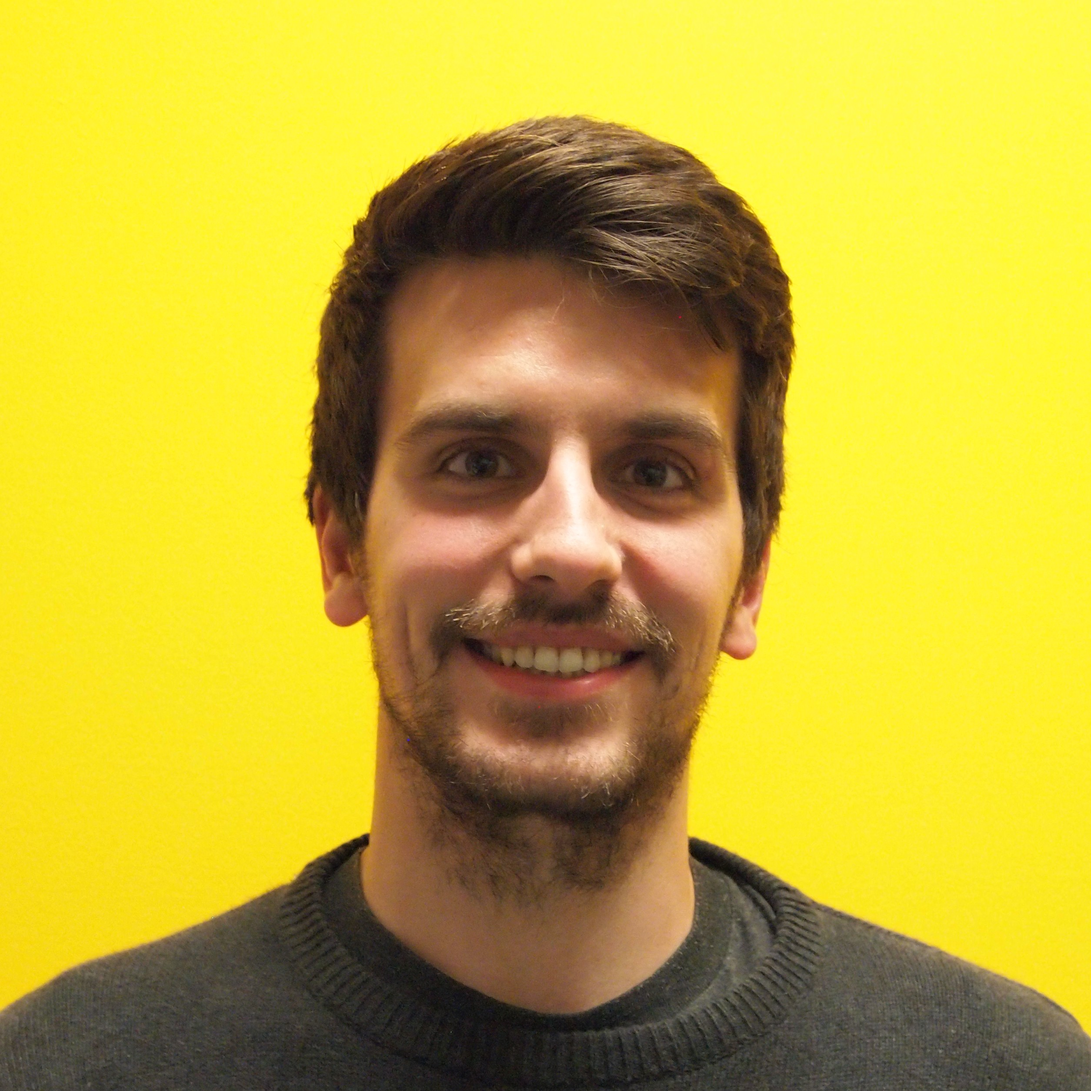
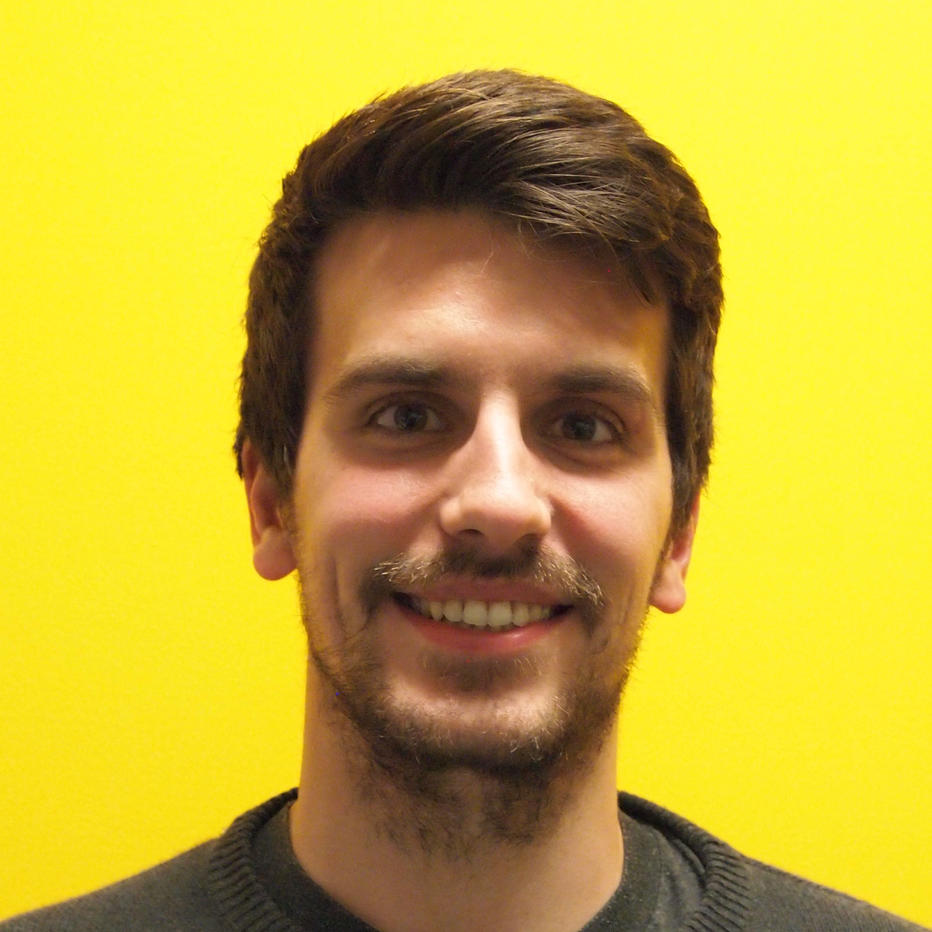
Another round of photos

diff --git a/html/people.html b/html/people.html
@@ -47,17 +47,17 @@
 		<h4 class='header-boxed'>Faculty</h4>
 
     		<div class="person-panel">
-    	    <div class="field field-name-field-cropface field-type-imagefield-crop field-label-hidden"><div class="field-items"><div class="field-item even"><img typeof="foaf:Image" src="../files/people-photos/default.png" alt="" /></div></div></div>    <span class='person-name'><a href="https://www.cs.ubc.ca/people/bill-aiello">Bill Aiello</a></span>
+    	    <div class="field field-name-field-cropface field-type-imagefield-crop field-label-hidden"><div class="field-items"><div class="field-item even"><img typeof="foaf:Image" src="../files/people-photos/newdefault.jpg" alt="" /></div></div></div>    <span class='person-name'><a href="https://www.cs.ubc.ca/people/bill-aiello">Bill Aiello</a></span>
     	    <span class='person-role'>Security and privacy <br/> Theory</span>
     	    </div>
       
     	    <div class="person-panel">
-    	    <div class="field field-name-field-cropface field-type-imagefield-crop field-label-hidden"><div class="field-items"><div class="field-item even"><img typeof="foaf:Image" src="../files/people-photos/default.png" alt="" /></div></div></div>    <span class='person-name'><a href="http://www.cs.ubc.ca/~bestchai/">Ivan Beschastnikh</a></span>
+    	    <div class="field field-name-field-cropface field-type-imagefield-crop field-label-hidden"><div class="field-items"><div class="field-item even"><img typeof="foaf:Image" src="../files/people-photos/ivan.jpg" alt="" /></div></div></div>    <span class='person-name'><a href="http://www.cs.ubc.ca/~bestchai/">Ivan Beschastnikh</a></span>
     	    <span class='person-role'>Distributed systems <br/> Formal methods <br/></span>
     	    </div>
 
     	    <div class="person-panel">
-    	    <div class="field field-name-field-cropface field-type-imagefield-crop field-label-hidden"><div class="field-items"><div class="field-item even"><img typeof="foaf:Image" src="../files/people-photos/default.png" alt="" /></div></div></div>    <span class='person-name'><a href="http://www.cs.ubc.ca/~feeley/">Mike Feeley</a></span>
+    	    <div class="field field-name-field-cropface field-type-imagefield-crop field-label-hidden"><div class="field-items"><div class="field-item even"><img typeof="foaf:Image" src="../files/people-photos/newdefault.jpg" alt="" /></div></div></div>    <span class='person-name'><a href="http://www.cs.ubc.ca/~feeley/">Mike Feeley</a></span>
     	    <span class='person-role'>Distributed systems <br/>Operating systems</span>
     	    </div>
 
@@ -67,26 +67,26 @@
     	    </div>
 
           	<div class="person-panel">
-        	<div class="field field-name-field-cropface field-type-imagefield-crop field-label-hidden"><div class="field-items"><div class="field-item even"><img typeof="foaf:Image" src="../files/people-photos/default.png" alt="" /></div></div></div>    <span class='person-name'><a href="http://www.cs.ubc.ca/~wagner/">Alan Wagner</a></span>
+        	<div class="field field-name-field-cropface field-type-imagefield-crop field-label-hidden"><div class="field-items"><div class="field-item even"><img typeof="foaf:Image" src="../files/people-photos/newdefault.jpg" alt="" /></div></div></div>    <span class='person-name'><a href="http://www.cs.ubc.ca/~wagner/">Alan Wagner</a></span>
         	<span class='person-role'>High performance systems</span>
         	</div>
 
         	<div class="person-panel">
-        	<div class="field field-name-field-cropface field-type-imagefield-crop field-label-hidden"><div class="field-items"><div class="field-item even"><img typeof="foaf:Image" src="../files/people-photos/default.png" alt="" /></div></div></div>    <span class='person-name'><a href="http://www.cs.ubc.ca/~andy/">Andrew Warfield</a></span>
+        	<div class="field field-name-field-cropface field-type-imagefield-crop field-label-hidden"><div class="field-items"><div class="field-item even"><img typeof="foaf:Image" src="../files/people-photos/newdefault.jpg" alt="" /></div></div></div>    <span class='person-name'><a href="http://www.cs.ubc.ca/~andy/">Andrew Warfield</a></span>
         	<span class='person-role'>Storage <br/>Operating systems<br/>Distributed systems<br/> </span>
         	</div>
 
         <h4 class='header-boxed-secondary'>Post Docs</h4>
 
             <div class="person-panel">
-            <div class="field field-name-field-cropface field-type-imagefield-crop field-label-hidden"><div class="field-items"><div class="field-item even"><img typeof="foaf:Image" src="../files/people-photos/default.png" alt="" /></div></div></div>    <span class='person-name'><a href="http://www.cs.ubc.ca/~jslegare/">Jean-Sébastien Légaré</a></span>
+            <div class="field field-name-field-cropface field-type-imagefield-crop field-label-hidden"><div class="field-items"><div class="field-item even"><img typeof="foaf:Image" src="../files/people-photos/newdefault.jpg" alt="" /></div></div></div>    <span class='person-name'><a href="http://www.cs.ubc.ca/~jslegare/">Jean-Sébastien Légaré</a></span>
             <span class='person-role'>Data privacy <br> Web security <br> Virtualisation</span>
             </div>
 
     	<h4 class='header-boxed-secondary'>PhD Students</h4>
 
             <div class="person-panel">
-            <div class="field field-name-field-cropface field-type-imagefield-crop field-label-hidden"><div class="field-items"><div class="field-item even"><img typeof="foaf:Image" src="../files/people-photos/default.png" alt="" /></div></div></div>    <span class='person-name'><a href="http://people.cs.ubc.ca/~pjcolp/">Patrick Colp</a></span>
+            <div class="field field-name-field-cropface field-type-imagefield-crop field-label-hidden"><div class="field-items"><div class="field-item even"><img typeof="foaf:Image" src="../files/people-photos/newdefault.jpg" alt="" /></div></div></div>    <span class='person-name'><a href="http://people.cs.ubc.ca/~pjcolp/">Patrick Colp</a></span>
             <span class='person-role'>Computer security <br> Virtualisation <br> Operating systems</span>
             </div>
 
@@ -101,7 +101,7 @@
             </div>
 
 		    <div class="person-panel">
-		    <div class="field field-name-field-cropface field-type-imagefield-crop field-label-hidden"><div class="field-items"><div class="field-item even"><img typeof="foaf:Image" src="../files/people-photos/default.png" alt="" /></div></div></div>    <span class='person-name'><a href="http://www.cs.ubc.ca/~mihirn/">Mihir Nanavati</a></span>
+		    <div class="field field-name-field-cropface field-type-imagefield-crop field-label-hidden"><div class="field-items"><div class="field-item even"><img typeof="foaf:Image" src="../files/people-photos/newdefault.jpg" alt="" /></div></div></div>    <span class='person-name'><a href="http://www.cs.ubc.ca/~mihirn/">Mihir Nanavati</a></span>
 		    <span class='person-role'>Operating systems <br> Distributed systems </span>
 		    </div>
 
@@ -113,12 +113,12 @@
     	<h4 class='header-boxed-secondary'>Master's Students</h4>
 
 	    	<div class="person-panel">
-		    <div class="field field-name-field-cropface field-type-imagefield-crop field-label-hidden"><div class="field-items"><div class="field-item even"><img typeof="foaf:Image" src="../files/people-photos/default.png" alt="" /></div></div></div>    <span class='person-name'><a href="./index.html">Amanda Carbonari</a></span>
+		    <div class="field field-name-field-cropface field-type-imagefield-crop field-label-hidden"><div class="field-items"><div class="field-item even"><img typeof="foaf:Image" src="../files/people-photos/amanda.jpg" alt="" /></div></div></div>    <span class='person-name'><a href="./index.html">Amanda Carbonari</a></span>
 		    <span class='person-role'>Disaggregated datacenters <br> Operating systems </span>
 		    </div>
 
             <div class="person-panel">
-            <div class="field field-name-field-cropface field-type-imagefield-crop field-label-hidden"><div class="field-items"><div class="field-item even"><img typeof="foaf:Image" src="../files/people-photos/default.png" alt="" /></div></div></div> <span class='person-name'><a href="./index.html">Renato Costa</a></span>
+            <div class="field field-name-field-cropface field-type-imagefield-crop field-label-hidden"><div class="field-items"><div class="field-item even"><img typeof="foaf:Image" src="../files/people-photos/newdefault.jpg" alt="" /></div></div></div> <span class='person-name'><a href="./index.html">Renato Costa</a></span>
             <span class='person-role'> Operating systems <br> Software verification <br> Software engineering </span>
             </div>
 
@@ -128,7 +128,7 @@
 		    </div>
 
             <div class="person-panel">
-            <div class="field field-name-field-cropface field-type-imagefield-crop field-label-hidden"><div class="field-items"><div class="field-item even"><img typeof="foaf:Image" src="../files/people-photos/default.png" alt="" /></div></div></div>    <span class='person-name'><a href="./index.html">Stewart Grant</a></span>
+            <div class="field field-name-field-cropface field-type-imagefield-crop field-label-hidden"><div class="field-items"><div class="field-item even"><img typeof="foaf:Image" src="../files/people-photos/newdefault.jpg" alt="" /></div></div></div>    <span class='person-name'><a href="./index.html">Stewart Grant</a></span>
             <span class='person-role'>Program analysis <br> Formal verification <br> Distributed protocols </span>
             </div>
 
@@ -138,12 +138,12 @@
             </div>
 
             <div class="person-panel">
-            <div class="field field-name-field-cropface field-type-imagefield-crop field-label-hidden"><div class="field-items"><div class="field-item even"><img typeof="foaf:Image" src="../files/people-photos/default.png" alt="" /></div></div></div>    <span class='person-name'><a href="./index.html">Jose Pazos</a></span>
+            <div class="field field-name-field-cropface field-type-imagefield-crop field-label-hidden"><div class="field-items"><div class="field-item even"><img typeof="foaf:Image" src="../files/people-photos/newdefault.jpg" alt="" /></div></div></div>    <span class='person-name'><a href="./index.html">Jose Pazos</a></span>
             <span class='person-role'>Systems</span>
             </div>
 
             <div class="person-panel">
-            <div class="field field-name-field-cropface field-type-imagefield-crop field-label-hidden"><div class="field-items"><div class="field-item even"><img typeof="foaf:Image" src="../files/people-photos/default.png" alt="" /></div></div></div>    <span class='person-name'><a href="./index.html">Robert Reiss</a></span>
+            <div class="field field-name-field-cropface field-type-imagefield-crop field-label-hidden"><div class="field-items"><div class="field-item even"><img typeof="foaf:Image" src="../files/people-photos/newdefault.jpg" alt="" /></div></div></div>    <span class='person-name'><a href="./index.html">Robert Reiss</a></span>
             <span class='person-role'> Cryptography <br> Networks <br> Security </span>
             </div>
 
@@ -153,26 +153,26 @@
 		    </div>
 
             <div class="person-panel">
-            <div class="field field-name-field-cropface field-type-imagefield-crop field-label-hidden"><div class="field-items"><div class="field-item even"><img typeof="foaf:Image" src="../files/people-photos/default.png" alt="" /></div></div></div>    <span class='person-name'><a href="http://jodispacek.com/">Jodi Spacek</a></span>
+            <div class="field field-name-field-cropface field-type-imagefield-crop field-label-hidden"><div class="field-items"><div class="field-item even"><img typeof="foaf:Image" src="../files/people-photos/jodi.jpg" alt="" /></div></div></div>    <span class='person-name'><a href="http://jodispacek.com/">Jodi Spacek</a></span>
             <span class='person-role'> Anonymous networks (Tor) <br> Distributed protocols </span>
             </div>
 
 	    <h4 class='header-boxed-secondary'>Visiting Students</h4>
 
 	    	<div class="person-panel">
-		    <div class="field field-name-field-cropface field-type-imagefield-crop field-label-hidden"><div class="field-items"><div class="field-item even"><img typeof="foaf:Image" src="../files/people-photos/default.png" alt="" /></div></div></div>    <span class='person-name'><a href="./index.html">Adalberto Junior</a></span>
+		    <div class="field field-name-field-cropface field-type-imagefield-crop field-label-hidden"><div class="field-items"><div class="field-item even"><img typeof="foaf:Image" src="../files/people-photos/adalberto.jpg" alt="" /></div></div></div>    <span class='person-name'><a href="./index.html">Adalberto Junior</a></span>
 		    <span class='person-role'>Microservices <br> Software engineering </span>
 		    </div>
 
             <div class="person-panel">
-            <div class="field field-name-field-cropface field-type-imagefield-crop field-label-hidden"><div class="field-items"><div class="field-item even"><img typeof="foaf:Image" src="../files/people-photos/default.png" alt="" /></div></div></div>    <span class='person-name'><a href="./index.html"> Stephen Ye</a></span>
+            <div class="field field-name-field-cropface field-type-imagefield-crop field-label-hidden"><div class="field-items"><div class="field-item even"><img typeof="foaf:Image" src="../files/people-photos/newdefault.jpg" alt="" /></div></div></div>    <span class='person-name'><a href="./index.html"> Stephen Ye</a></span>
             <span class='person-role'>Software reliability</span>
             </div>
 
     	<h4 class='header-boxed-secondary'>Undergraduate Students</h4>
 
 		    <div class="person-panel">
-		    <div class="field field-name-field-cropface field-type-imagefield-crop field-label-hidden"><div class="field-items"><div class="field-item even"><img typeof="foaf:Image" src="../files/people-photos/default.png" alt="" /></div></div></div>    <span class='person-name'><a href="./index.html">Brandon Zhang</a></span>
+		    <div class="field field-name-field-cropface field-type-imagefield-crop field-label-hidden"><div class="field-items"><div class="field-item even"><img typeof="foaf:Image" src="../files/people-photos/newdefault.jpg" alt="" /></div></div></div>    <span class='person-name'><a href="./index.html">Brandon Zhang</a></span>
 		    <span class='person-role'>Distributed systems<br/>Compilers</span>
             </div>
 
@@ -181,10 +181,15 @@
             <span class='person-role'>Differential privacy<br/>Distributed machine learning </span>
             </div>
 
+            <div class="person-panel">
+            <div class="field field-name-field-cropface field-type-imagefield-crop field-label-hidden"><div class="field-items"><div class="field-item even"><img typeof="foaf:Image" src="../files/people-photos/james.jpg" alt="" /></div></div></div>    <span class='person-name'><a href="./index.html">James Liu</a></span>
+            <span class='person-role'>Operating Systems<br/>Security </span>
+            </div>
+
     	<h4 class='header-boxed-secondary'>Alumni (PhD Students)</h4>
 
             <div class="person-panel">
-            <div class="field field-name-field-cropface field-type-imagefield-crop field-label-hidden"><div class="field-items"><div class="field-item even"><img typeof="foaf:Image" src="../files/people-photos/default.png" alt="" /></div></div></div>    <span class='person-name'><a href="http://www.cs.ubc.ca/~jslegare/">Jake Wires</a></span>
+            <div class="field field-name-field-cropface field-type-imagefield-crop field-label-hidden"><div class="field-items"><div class="field-item even"><img typeof="foaf:Image" src="../files/people-photos/newdefault.jpg" alt="" /></div></div></div>    <span class='person-name'><a href="http://www.cs.ubc.ca/~jslegare/">Jake Wires</a></span>
             <span class='person-role'>Storage<br/>Distributed systems</span>
             </div>
 
